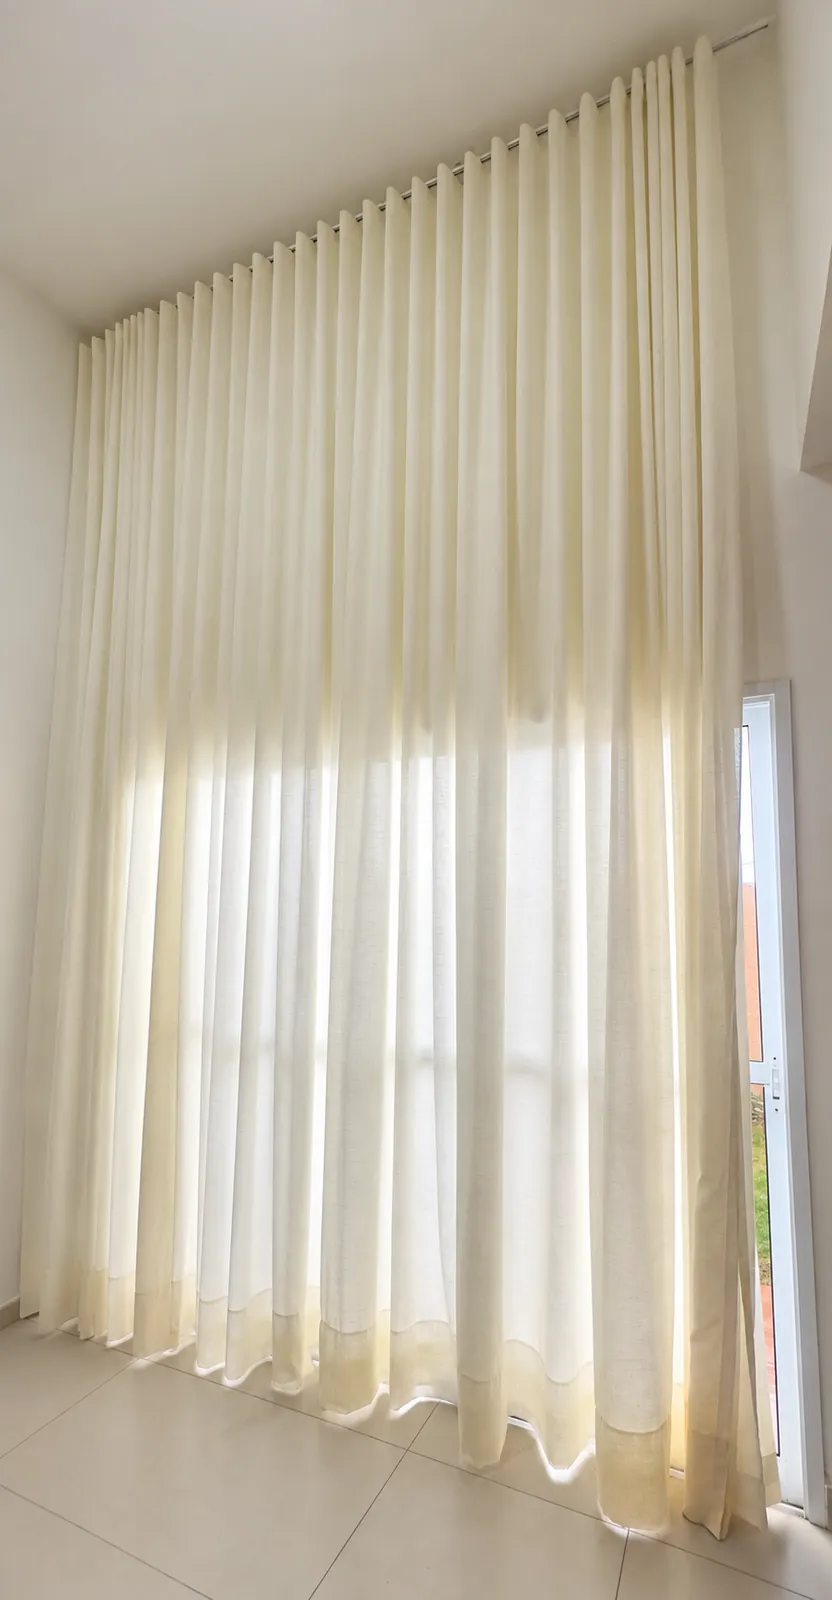
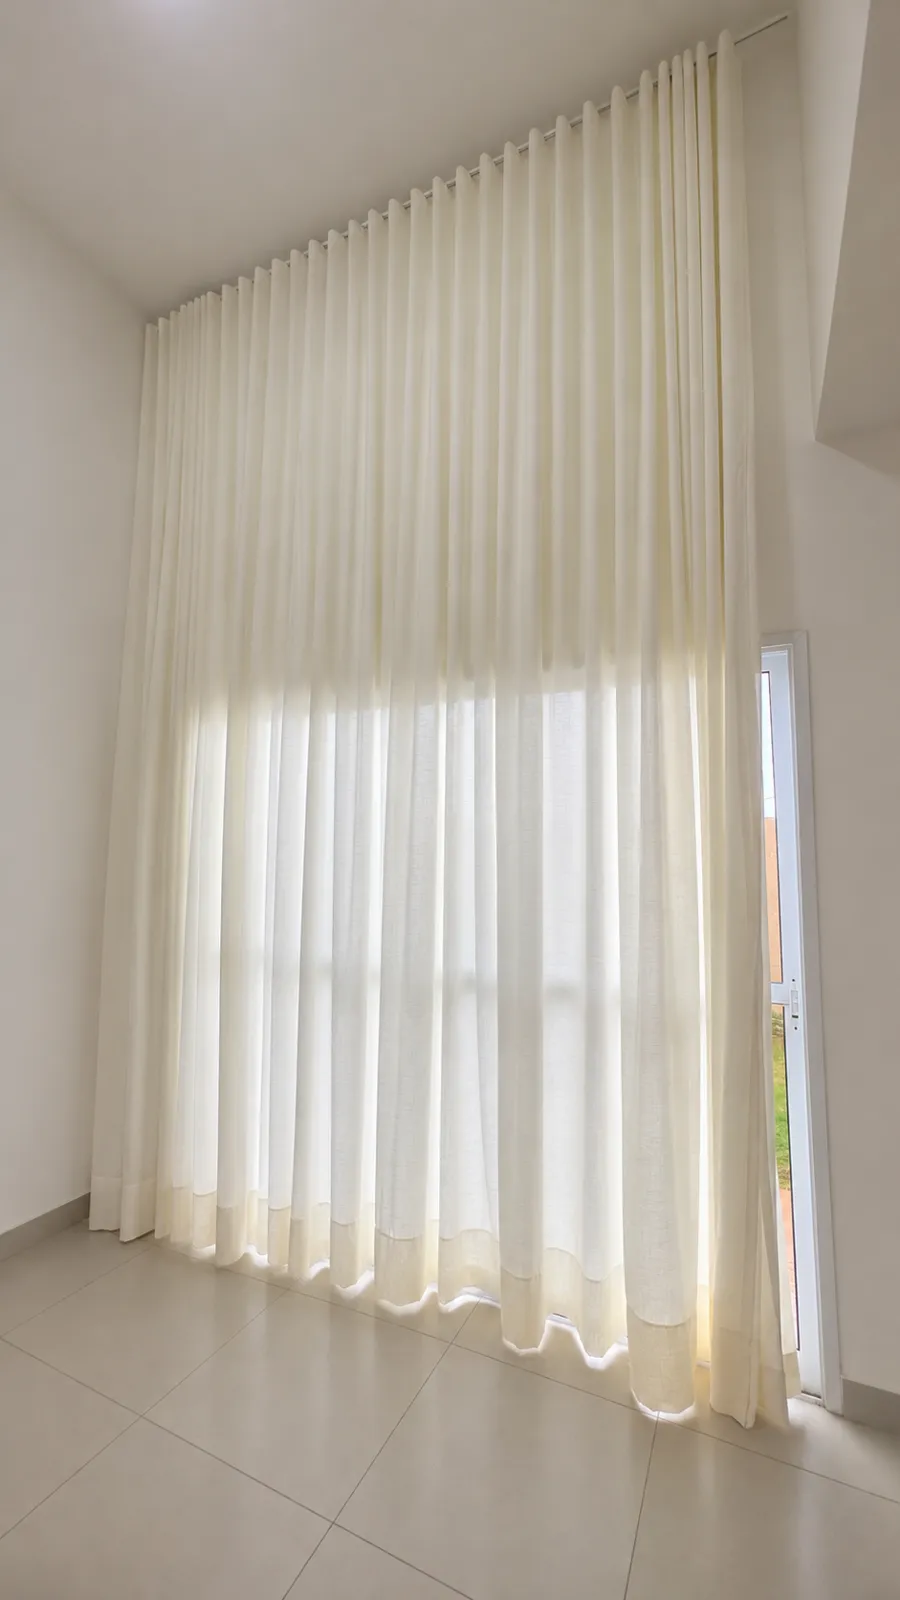
Cortina com foto nova e preço de R$ 800

diff --git a/site/js/itens.js b/site/js/itens.js
@@ -42,7 +42,7 @@ const ITENS = [
   { id: "aspirador-vertical", amb: "sala", icone: "aspirador", nome: "Aspirador de pó vertical", marca: "WAP", preco: 250, estado: "", specs: [], fotos: ["fotos/aspirador-vertical-1.webp"] },
   { id: "quadros", amb: "sala", icone: "quadros", nome: "Quadros", marca: "", preco: null, precoTexto: "Valor a combinar", estado: "", specs: ["Vários quadros: veja todas as fotos"], fotos: ["fotos/quadros-1.webp", "fotos/quadros-2.webp", "fotos/quadros-3.webp", "fotos/quadros-4.webp", "fotos/quadros-5.webp", "fotos/quadros-6.webp", "fotos/quadros-7.webp", "fotos/quadros-8.webp", "fotos/quadros-9.webp"] },
 
-  { id: "cortina", amb: "sala", icone: "casa", nome: "Cortina", marca: "", preco: 1000, estado: "", specs: [], fotos: ["fotos/cortina-1.webp"] },
+  { id: "cortina", amb: "sala", icone: "casa", nome: "Cortina", marca: "", preco: 800, estado: "", specs: [], fotos: ["fotos/cortina-1.webp"] },
 
   // Cozinha
   { id: "geladeira", amb: "cozinha", icone: "geladeira", nome: "Geladeira", marca: "", preco: 1500, estado: "", specs: [], fotos: ["fotos/geladeira-1.webp", "fotos/geladeira-2.webp"] },
